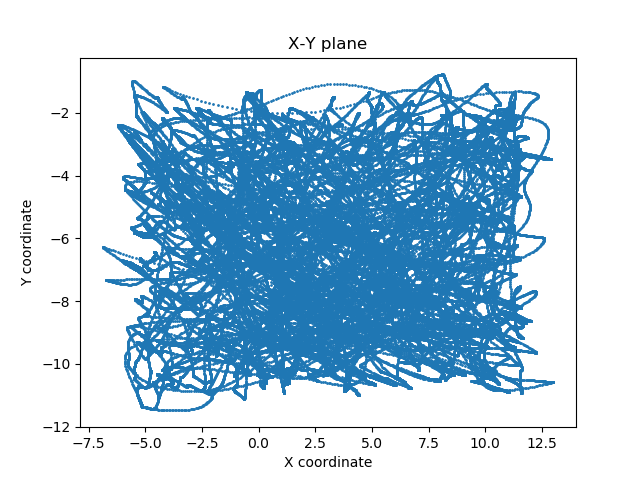
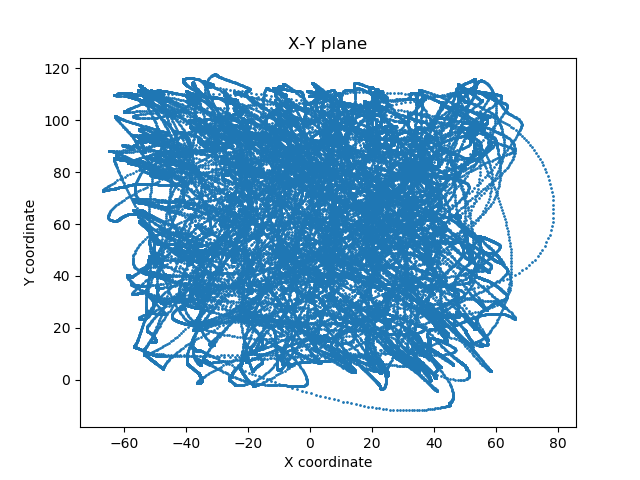
thesis

diff --git a/Thesis_Wu/Materials_and_Methods.tex b/Thesis_Wu/Materials_and_Methods.tex
@@ -11,15 +11,46 @@ Some sessions of the dataset were made with the recording from both arrays, wher
 The sampling rate of both arrays is 24.4kHz.
 
 The monkeys were trained to perform reaching tasks with their arms in a transverse plane, with targets showing up in a virtual reality environment.
-Circular targets in 5mm virual radius were presented in either $8 \times 8 $ square grid or $8 \times 17$ rectangular grid for monkey Indy,
+Circular targets in 5mm virual radius were presented in either $8 \times 8 $ square grid or $8 \times 17$ rectangular grid for monkey Indy in Figure \ref{fig:panels},
 and for monky Loco, square grid of size $6 \times 6$ was used.
+
+\begin{figure}[H]
+	\begin{center}
+		\centering
+		\begin{subfigure}{0.48\textwidth}
+            \centering\includegraphics[width=1\textwidth]{indy_20170123_02_panel.png}
+            \label{fig:8_times_8}
+			\caption{} 
+		\end{subfigure}
+		\begin{subfigure}{0.48\textwidth}
+            \centering\includegraphics[width=1\textwidth]{indy_20160411_02_panel.png}
+            \label{fig:8_times_17}
+			\caption{} 
+		\end{subfigure}
+        \caption[Two sizes of the panel]{ (a) $8 \times 8 $ square grid   (b) $8 \times 17$ rectangular grid}
+        \label{fig:panels}		
+	\end{center}	
+\end{figure}
+
+
 Only when the monkeys' fingertip reached the acceptance zone of size $7.5mm  \times 7.5mm$ which centered on each target for 450ms would the system consider a legitimate touch and move on to another cue.
+The recorded tragectory in the x- and y-axis as well as the target cue for both directions is in Figure \ref{fig:position_and_cue},
+where the solid lines indicate the actual tragectory of the fingertip and the dash lines indicate the target cue.
+
+\begin{figure}[H]
+    \begin{center}
+        \includegraphics[width=1\textwidth]{x_and_y_trajectory_and_cue.png}
+        \caption{Actual Fingertip Trajectories with Target Cue}
+        \fontsize{10}{12}
+        \label{fig:position_and_cue}
+    \end{center}
+\end{figure}
+
 They used a mirror to reflect visual input from a projector so that visual cues appeared in the plane of the reaching hand.
 An opaque barrier lied between the eyes of the monkeys and their finger tips, so that the monkeys were not able to see their hands directly during experiments.
 The experimental environment is showed in Figure \ref{fig:monkey_exp_2}.
 Fingertip position was recorded simultaneously with a six-axis electromagnetic position sensors, with a 250Hz sampling rate.
 The fingertip velocity and acceleration were then computed afterwards by discrete derivative, which is simply the differeces divided by the sampling period.
-
 
 % \begin{figure}[H]
 %     \centering
@@ -86,8 +117,8 @@ Figure \ref{fig:indy_20160407_02_S1_ch_60} is the spike train from S1 electrode 
 Spike firing rate was calculated by counting the spike numbers within non-overlapping 64ms bins.
 For other experiments, different width of time bins were used to acquire different firing rates.
 The heatmap of the firing rate within 50 time bins and the 6 kinematic variables are showed in Figure \ref{fig:firing_rate_and_kinematic_variable}.
-For each type of the kinematic variable (position, velocity, acceleration) we will predict the changes in x and y axis, omitting the z axis.
-The heatmap is showing an relationship between the occurrance of movements and the intensive spike firing.
+For each type of the kinematic variable (position, velocity, acceleration) we will predict the trajectory among x- and y-axis, but omitting the z-axis.
+The heatmap is showing an relationship between the occurrance of movements and the intensity of spike firing.
 
 \begin{figure}[H]
     \begin{center}
@@ -98,7 +129,22 @@ The heatmap is showing an relationship between the occurrance of movements and t
     \end{center}
 \end{figure}
 
+\newpage
 \section{Deep Neural Network}
 \subsection{Recurrent Neural Network}
+In our study, we used the model name Gated Recurrent Unit (GRU) as neural decoder.
+The structure in each cell is showed in Figure \ref{fig:GRU_cell}.
+
+\begin{figure}[H]
+    \begin{center}
+        \includegraphics[width=1\textwidth]{GRU_cell.png}
+        \caption{Inside of a GRU Cell}
+        \fontsize{10}{12}
+        \label{fig:GRU_cell}
+    \end{center}
+\end{figure}
+
+
+
 \subsection{Layer Normalization}
 \subsection{Attention Mechanism}

diff --git a/Python_code/Read_mat_file_and_Plot/plot_x_y_trajectory.py b/Python_code/Read_mat_file_and_Plot/plot_x_y_trajectory.py
@@ -5,7 +5,8 @@ import h5py
 import numpy
 import matplotlib.pyplot as plot 
 path=r'''../../Figures/Kinematic_Variables_Plots/'''
-with h5py.File('../../Dataset/Sorted_Spike_Dataset/indy_20160407_02.mat', 'r') as mat_file:
+session_name='indy_20161025_04'
+with h5py.File('../../Dataset/Sorted_Spike_Dataset/'+ session_name +'.mat', 'r') as mat_file:
 
     '''
     finger_pos = mat_file['finger_pos']
@@ -19,17 +20,32 @@ with h5py.File('../../Dataset/Sorted_Spike_Dataset/indy_20160407_02.mat', 'r') a
 
     numpy_finger_pos=mat_file.get('finger_pos')
     numpy_finger_pos=np.array(numpy_finger_pos)
+
+    numpy_finger_target=mat_file.get('target_pos')
+    numpy_finger_target=np.array(numpy_finger_target)
+
     numpy_time_stamp=mat_file.get('t')
     numpy_time_stamp=np.array(numpy_time_stamp)
 
     print('numpy_finger_pos shape: ',end='')
     print(numpy_finger_pos.shape) #  (3, 204446)
+
     print('numpy_time_stamp: ',end='')
     print(numpy_time_stamp.shape)  #  (1, 204446)
 
-    finger_z_coor=numpy_finger_pos[0][:]
-    finger_x_coor=numpy_finger_pos[1][:]
-    finger_y_coor=numpy_finger_pos[2][:]
+    print('numpy_finger_target: ',end='')
+    print(numpy_finger_target.shape)  #  (2, 204446)
+
+    finger_z_coor=numpy_finger_pos[0][:]*-10
+    finger_x_coor=numpy_finger_pos[1][:]*-10
+    finger_y_coor=numpy_finger_pos[2][:]*-10
+
+    target_x_coor=numpy_finger_target[0][:]
+    target_y_coor=numpy_finger_target[1][:]
+
+my_fontsize = 30
+my_height = 25
+my_width = 9
 
 plot.scatter(finger_x_coor, finger_y_coor, s=1)
 plot.title('X-Y plane')
@@ -57,3 +73,22 @@ plot.xlabel('Y coordinate')
 plot.ylabel('Z coordinate')
 #plot.show()
 plot.savefig(path+'Y-Z_plane_trajectory.png')
+
+plot.cla()
+plot.clf()
+
+
+plot.figure(figsize=(my_height,my_width))
+plot.title(session_name, fontsize=my_fontsize, color='black')
+plot.plot( numpy_time_stamp[0,10000:20000],finger_x_coor[10000:20000] ,'b' , linewidth=5, alpha=0.7, label='x-axis recording')
+plot.plot( numpy_time_stamp[0,10000:20000],target_x_coor[10000:20000] ,'b--', linewidth=5, alpha=0.8, label='x-axis target cue')
+plot.plot( numpy_time_stamp[0,10000:20000],finger_y_coor[10000:20000] ,'g' , linewidth=5, alpha=0.7, label='y-axis recording')
+plot.plot( numpy_time_stamp[0,10000:20000],target_y_coor[10000:20000] ,'g--', linewidth=5, alpha=0.8, label='y-axis target cue')
+plot.ylabel('Position (mm)', fontsize=my_fontsize)
+plot.xlabel('Time (second)', fontsize=my_fontsize)
+plot.xticks(fontsize=my_fontsize*0.5)
+plot.yticks(fontsize=my_fontsize*0.5)
+plot.xlim([ numpy_time_stamp[0,10000], numpy_time_stamp[0,20000]])
+plot.legend(loc='upper right', fontsize=my_fontsize*0.8)
+plot.tight_layout()
+plot.savefig(path+'x_and_y_trajectory_and_cue.png')
